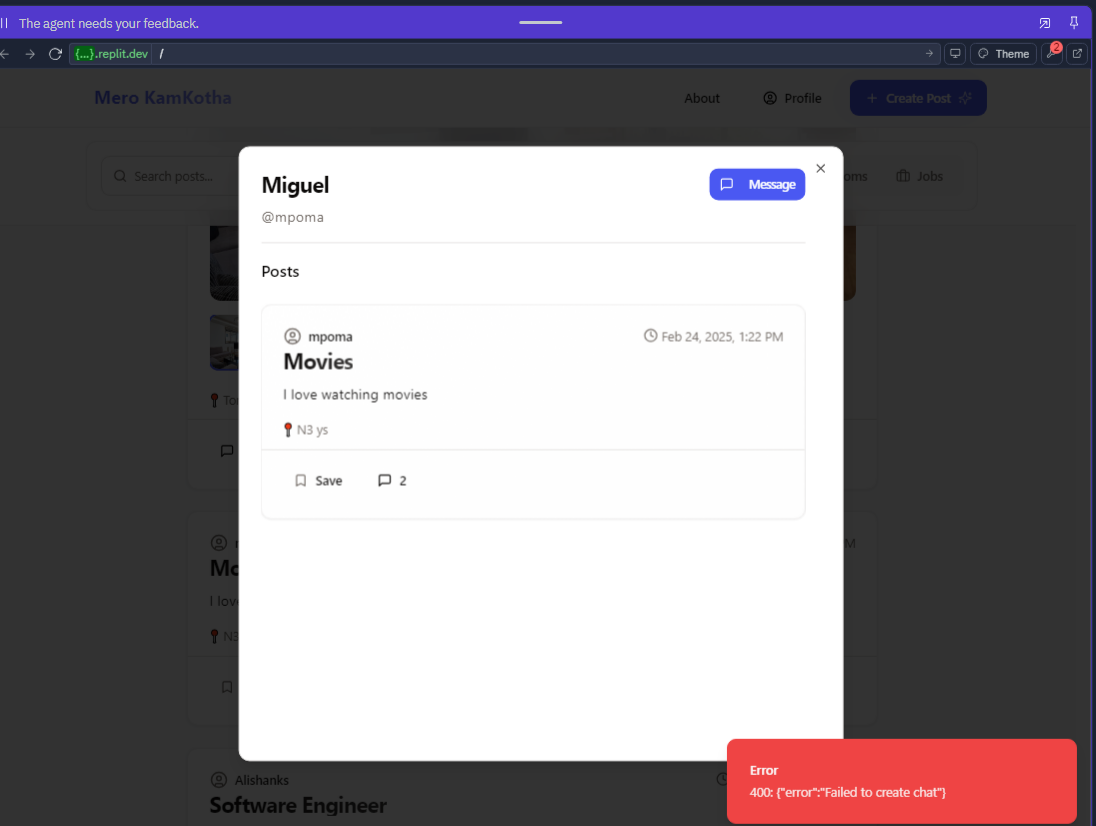
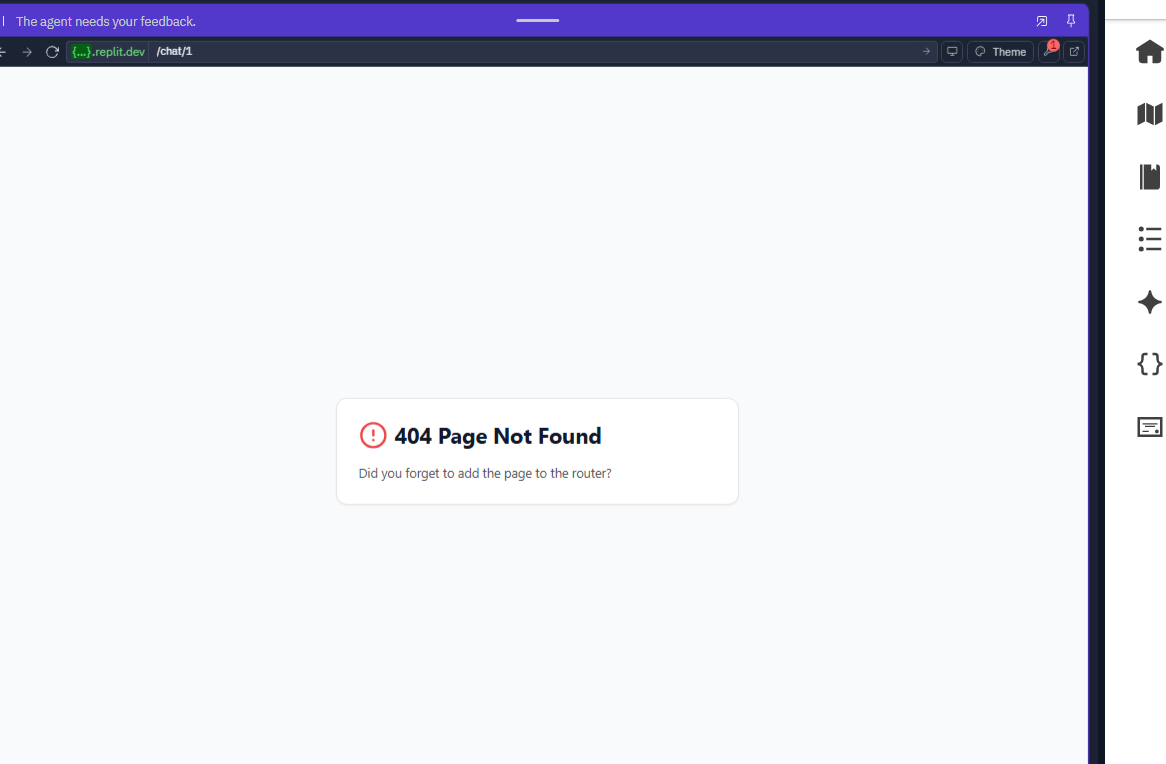
Fix: Implement basic chat functionality and resolve 404 error on message button click.
Replit-Commit-Author: Agent
Replit-Commit-Session-Id: 2dfc163d-4459-4422-9708-005199034354
Replit-Commit-Screenshot-Url: https://storage.googleapis.com/screenshot-production-us-central1/9f45e22f-bd83-42d4-8483-7fad39486771/7f4ca8bb-2c75-4e9f-a431-eefa22285796.jpg

diff --git a/client/src/App.tsx b/client/src/App.tsx
@@ -8,6 +8,7 @@ import HomePage from "@/pages/home-page";
 import AuthPage from "@/pages/auth-page";
 import ProfilePage from "@/pages/profile-page";
 import AboutPage from "@/pages/about-page";
+import ChatPage from "@/pages/chat-page";
 import NotFound from "@/pages/not-found";
 
 function Router() {
@@ -16,6 +17,7 @@ function Router() {
       <ProtectedRoute path="/" component={HomePage} />
       <ProtectedRoute path="/profile" component={ProfilePage} />
       <ProtectedRoute path="/about" component={AboutPage} />
+      <ProtectedRoute path="/chat" component={ChatPage} />
       <Route path="/auth" component={AuthPage} />
       <Route component={NotFound} />
     </Switch>

diff --git a/client/src/components/user/user-profile-dialog.tsx b/client/src/components/user/user-profile-dialog.tsx
@@ -55,9 +55,9 @@ export function UserProfileDialog({ username, open, onOpenChange }: UserProfileD
       if (!res.ok) throw new Error("Failed to create chat");
       return await res.json();
     },
-    onSuccess: (chat) => {
+    onSuccess: () => {
       onOpenChange(false);
-      navigate(`/chat/${chat.id}`);
+      navigate('/chat'); // Navigate to the main chat page
     },
     onError: (error: Error) => {
       toast({
